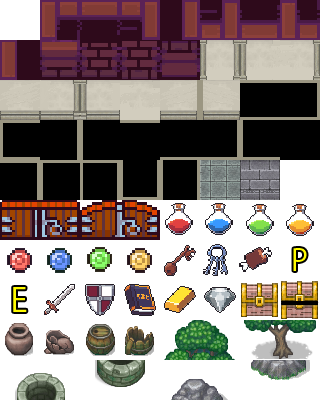
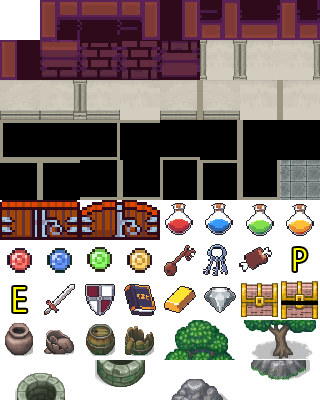
map等

diff --git a/zelda/source/MapCtrl.cpp b/zelda/source/MapCtrl.cpp
@@ -251,6 +251,7 @@ bool MapCtrl::SetUpGameObj(sharedListObj objList, bool modeFlag)
 			case MAP_ID::WALL36:
 			case MAP_ID::WALL37:
 			case MAP_ID::WALL38:
+			case MAP_ID::WALL39:
 			case MAP_ID::DOOR1:
 			case MAP_ID::DOOR2:
 			case MAP_ID::DOOR3:
@@ -359,6 +360,7 @@ void MapCtrl::Draw(bool flag)
 			case MAP_ID::WALL36:
 			case MAP_ID::WALL37:
 			case MAP_ID::WALL38:
+			case MAP_ID::WALL39:
 			case MAP_ID::DOOR1:
 			case MAP_ID::DOOR2:
 			case MAP_ID::DOOR3:
